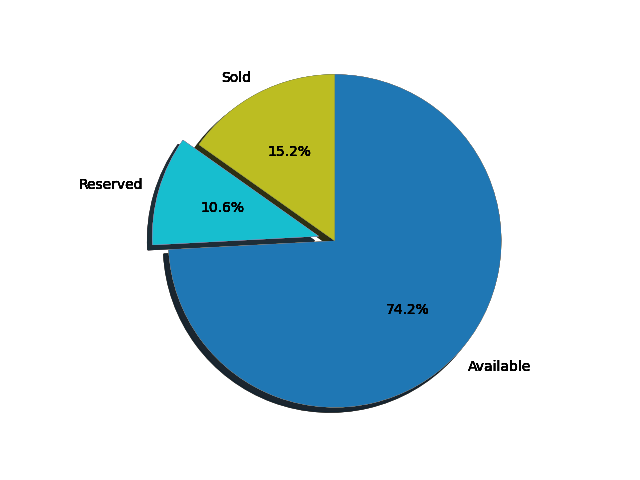
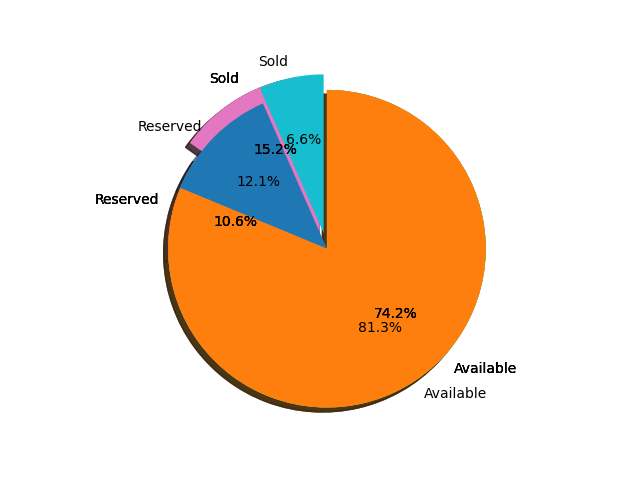
add chart.js

diff --git a/simple_crm/reports/templates/SalesAnalysisPerProject.html b/simple_crm/reports/templates/SalesAnalysisPerProject.html
@@ -6,8 +6,8 @@
     <link rel="stylesheet" href="/static/styles.css">
 
      {% block title %}<h1>  Simple CRM / Project {{ project }} sales analysis  </h1>   {% endblock %}
-    <script src="https://ajax.googleapis.com/ajax/libs/jquery/3.4.1/jquery.min.js"></script>
-    <script src="https://maxcdn.bootstrapcdn.com/bootstrap/3.4.1/js/bootstrap.min.js"></script>
+    <script src="https://cdnjs.cloudflare.com/ajax/libs/Chart.js/3.7.0/chart.min.js"></script>
+
   </head>
     {% endblock %}
 
@@ -18,7 +18,7 @@
              <th> Total apartments qty </th>
             <th> Total apartments area </th>
             <th> Total apartments value </th>
-             <td> Total average apartments price\sqm</td>
+             <th> Total average apartments price\sqm</th>
 
             <tr>
                 <td>{{ total_apartments_quantity }}</td>
@@ -113,9 +113,167 @@
 <br>
 
 {% endblock %}
+
 {% block second_action %}
 
-<img src="{% static 'pie_chart.png' %}" alt="My image">
+
+
+
+
+<table>
+    <tbody>
+
+
+<tr>
+    <td>
+         <div style="width:350px;height:350px">
+                <canvas id="myChart" width="400" height="400"></canvas>
+                    </div>
+    </td>
+
+
+
+        <script>
+        const ctx = document.getElementById('myChart').getContext('2d');
+const myChart = new Chart(ctx, {
+    type: 'bar',
+    data: {
+        labels: ['Sold', 'Reserved', 'Available'],
+        datasets: [{
+            label: 'Qty of sold,reserved,available',
+            data: [{{ sold_apartments_quantity }},{{ reserved_apartments_quantity }},{{ available_apartments_quantity }}],
+            backgroundColor: [
+                'rgba(255, 99, 132, 0.2)',
+                'rgba(54, 162, 235, 0.2)',
+                'rgba(255, 206, 86, 0.2)',
+                'rgba(75, 192, 192, 0.2)',
+                'rgba(153, 102, 255, 0.2)',
+                'rgba(255, 159, 64, 0.2)'
+            ],
+            borderColor: [
+                'rgba(255, 99, 132, 1)',
+                'rgba(54, 162, 235, 1)',
+                'rgba(255, 206, 86, 1)',
+                'rgba(75, 192, 192, 1)',
+                'rgba(153, 102, 255, 1)',
+                'rgba(255, 159, 64, 1)'
+            ],
+            borderWidth: 1
+        }]
+    },
+    options: {
+        responsive: true,
+        scales: {
+            y: {
+                beginAtZero: true
+            }
+        }
+    }
+});
+
+</script>
+
+
+
+                <td>
+                     <div style="width:350px;height:350px">
+              <canvas id="secChart" width="400" height="400"></canvas>
+                </div>
+                </td>
+
+
+<script>
+    const ctx_2 = document.getElementById('secChart').getContext('2d');
+const secChart = new Chart(ctx_2, {
+    type: 'bar',
+    data: {
+        labels: ['Sold', 'Reserved', 'Available'],
+        datasets: [{
+            label: 'Average price',
+            data: [{{ average_sold_price }},{{ average_reserved_price }},{{ average_available_price }}],
+            backgroundColor: [
+                'rgba(255, 99, 132, 0.2)',
+                'rgba(54, 162, 235, 0.2)',
+                'rgba(255, 206, 86, 0.2)',
+                'rgba(75, 192, 192, 0.2)',
+                'rgba(153, 102, 255, 0.2)',
+                'rgba(255, 159, 64, 0.2)'
+            ],
+            borderColor: [
+                'rgba(255, 99, 132, 1)',
+                'rgba(54, 162, 235, 1)',
+                'rgba(255, 206, 86, 1)',
+                'rgba(75, 192, 192, 1)',
+                'rgba(153, 102, 255, 1)',
+                'rgba(255, 159, 64, 1)'
+            ],
+            borderWidth: 1
+        }]
+    },
+    options: {
+        responsive: true,
+        scales: {
+            y: {
+                beginAtZero: true
+            }
+        }
+    }
+});
+
+</script>
+
+
+
+          <td>
+                     <div style="width:350px;height:350px">
+              <canvas id="thirdChart" width="400" height="400"></canvas>
+                </div>
+                </td>
+            </tr>
+
+<script>
+    const ctx_3 = document.getElementById('thirdChart').getContext('2d');
+const thirdChart = new Chart(ctx_3, {
+    type: 'bar',
+    data: {
+        labels: ['Sold', 'Reserved', 'Available'],
+        datasets: [{
+            label: 'Average price',
+            data: [{{ sold_products_val }},{{ reserved_products_val }},{{ available_products_val }}],
+            backgroundColor: [
+                'rgba(255, 99, 132, 0.2)',
+                'rgba(54, 162, 235, 0.2)',
+                'rgba(255, 206, 86, 0.2)',
+                'rgba(75, 192, 192, 0.2)',
+                'rgba(153, 102, 255, 0.2)',
+                'rgba(255, 159, 64, 0.2)'
+            ],
+            borderColor: [
+                'rgba(255, 99, 132, 1)',
+                'rgba(54, 162, 235, 1)',
+                'rgba(255, 206, 86, 1)',
+                'rgba(75, 192, 192, 1)',
+                'rgba(153, 102, 255, 1)',
+                'rgba(255, 159, 64, 1)'
+            ],
+            borderWidth: 1
+        }]
+    },
+    options: {
+        responsive: true,
+        scales: {
+            y: {
+                beginAtZero: true
+            }
+        }
+    }
+});
+
+</script>
+
+    </tbody>
+</table>
+<!--<img src="{% static 'pie_chart.png' %}" alt="My image">-->
 
 
 

diff --git a/simple_crm/reports/views.py b/simple_crm/reports/views.py
@@ -13,7 +13,7 @@ from django.contrib.auth.decorators import login_required, permission_required
 from django.contrib.auth.mixins import PermissionRequiredMixin, LoginRequiredMixin
 from django.contrib.auth import logout
 from django.shortcuts import redirect
-import matplotlib.pyplot as plt
+import matplotlib.pyplot
 from PIL import Image
 import os
 
@@ -768,21 +768,42 @@ class ProjectSalesAnalysis(LoginRequiredMixin, View):
                 average_sold_price_per_sqm = f"{round(float(sold_products_val / sold_products_area_val), 2)} PLN" # calculate sold apartments average price/sqm
                 average_reserved_price_per_sqm = f"{round(float(reserved_products_val / reserved_products_area_val), 2)} PLN" # calculate reserved apartments average price/sqm
                 average_available_price_per_sqm = f"{round(float(available_products_val / available_products_area_val), 2)} PLN" # calculate available apartments average price/sqm
-                average_total_price_per_sqm = f"{round(float(total_apartments_val / total_apartments_area_val), 2)} PLN" # calculate total average price/sqm
+                average_total_price_per_sqm = f"{round(float(total_apartments_val / total_apartments_area_val), 2)} PLN" # calculate total average
+
+                average_sold_price = int(sold_products_val / sold_products_area_val)  # calculate sold apartments average price/sqm
+                average_reserved_price = int(reserved_products_val / reserved_products_area_val) # calculate reserved apartments average price/sqm
+                average_available_price = int(available_products_val / available_products_area_val) # calculate available apartments average price/sqm
+                average_total_price = int(total_apartments_val / total_apartments_area_val) # calculate total average price/sqm
+
 
                 labels = 'Sold', 'Reserved', 'Available'
                 areas = [sold_products_area_val, reserved_products_area_val, available_products_area_val]
-                explode = (0, 0.1, 0)
-                ax1 = plt.subplot()
+                explode = (0.1, 0, 0)
+                ax1 = matplotlib.pyplot.subplot()
                 ax1.pie(areas, explode=explode, labels=labels, autopct='%1.1f%%', shadow=True, startangle=90)
                 ax1.axis('equal')
-                plt.savefig('/home/karol/Coderslab_final_project/simple_crm/cstmgmnt/static/pie_chart.png')
+                matplotlib.pyplot.savefig('/home/karol/Coderslab_final_project/simple_crm/cstmgmnt/static/pie_chart.png')
                 p_chart_1 = Image.open('/home/karol/Coderslab_final_project/simple_crm/cstmgmnt/static/pie_chart.png')
+
+                # columns = ['Sold', 'Reserved', 'Available', 'Total']
+                # prices = [average_sold_price, average_reserved_price, average_available_price, average_total_price]
+                # matplotlib.pyplot.bar(range(len(columns)), prices)
+                # matplotlib.pyplot.ylabel("Price per sqm")
+                # matplotlib.pyplot.title("Average prices")
+                # matplotlib.pyplot.xticks(range(len(columns)), columns)
+                # matplotlib.pyplot.savefig('/home/karol/Coderslab_final_project/simple_crm/cstmgmnt/static/bar_chart.png')
+
+
+
 
 
                 ctx = {'project': project_name,
                        'pie_chart': p_chart_1,
-                    'products_sold': products_sold,
+                       'average_sold_price':average_sold_price,
+                       'average_reserved_price':average_reserved_price,
+                       'average_available_price':average_available_price,
+                       'average_total_price':average_total_price,
+                           'products_sold': products_sold,
                        'products_reserved': products_reserved,
                        'products_available': products_available,
                        'total_apartments_quantity': total_apartments_qty,
